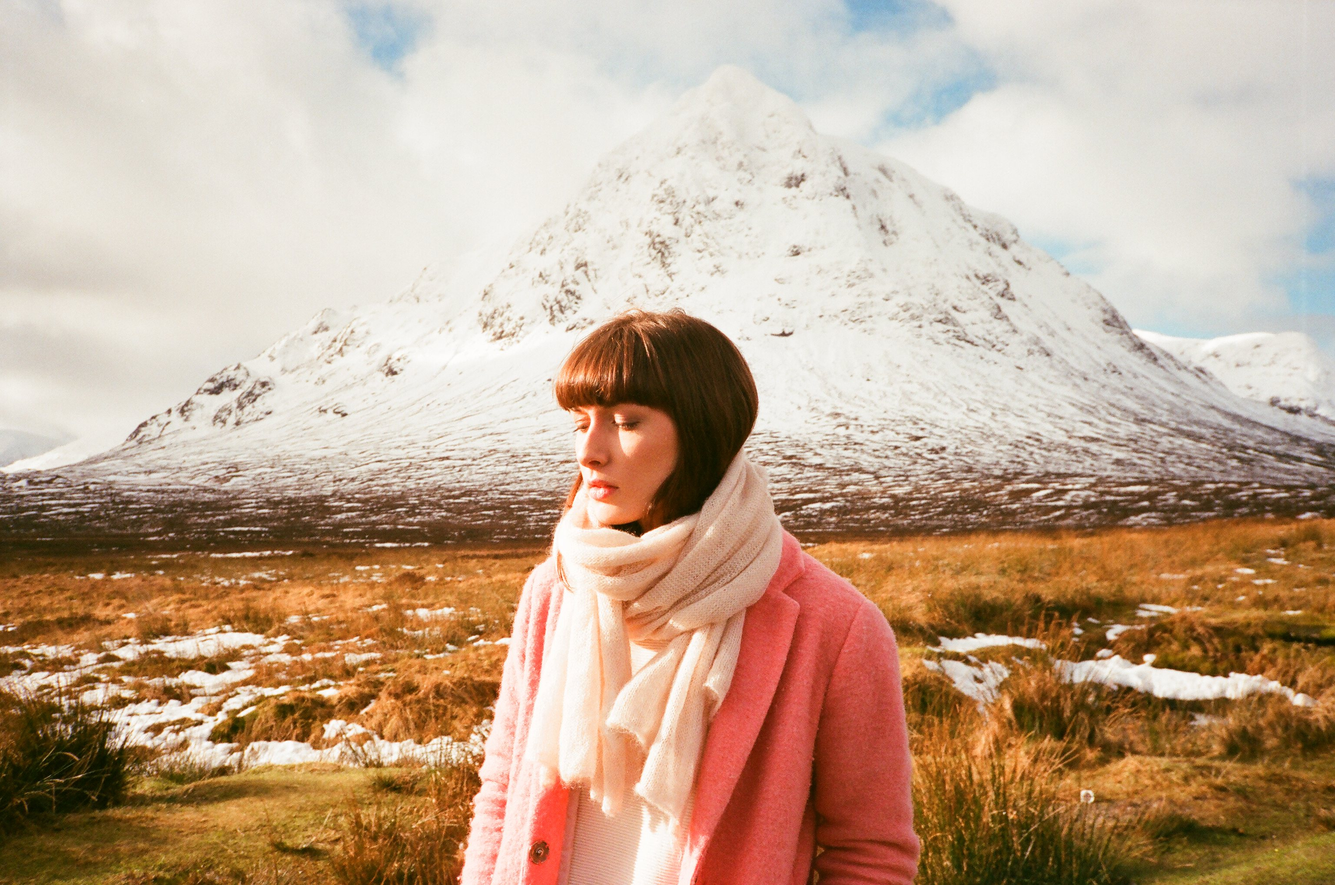
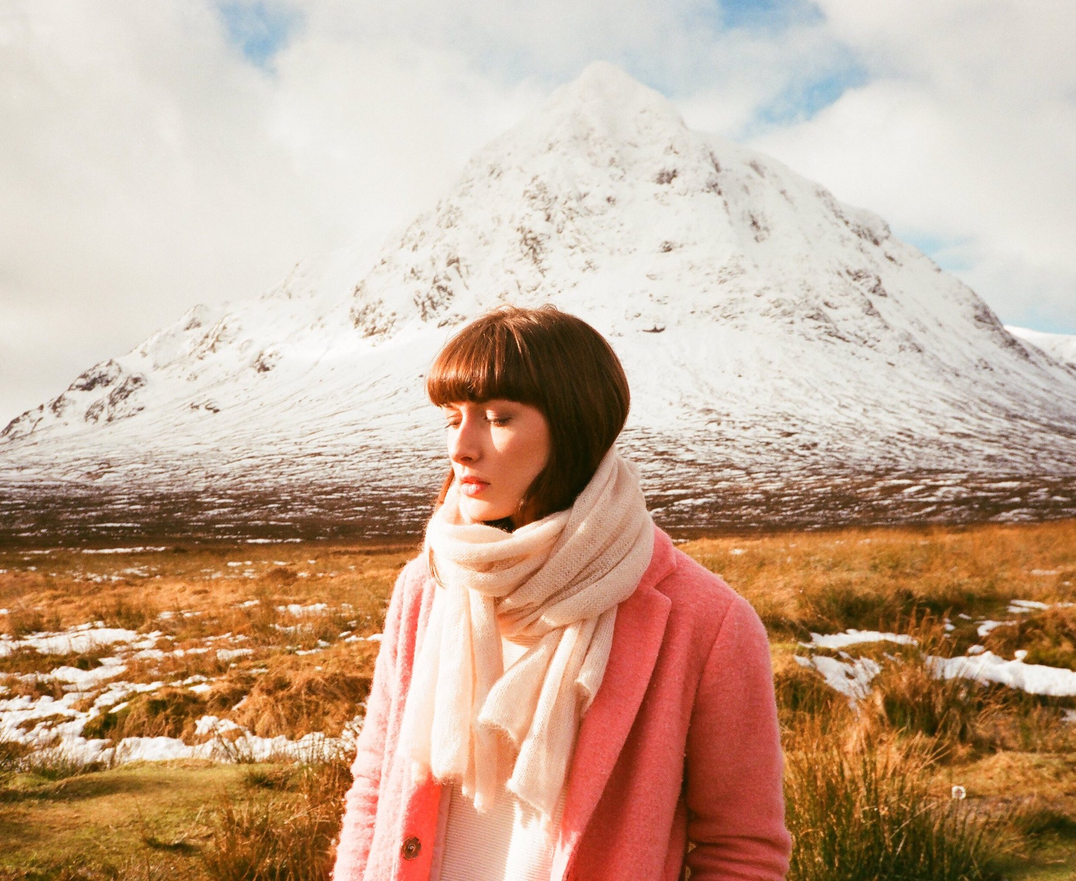
Implement redesign home featured header
+ New header image section
+ Fixed typos in all pages
+ Cleaned up css

diff --git a/css/main.css b/css/main.css
@@ -61,7 +61,7 @@ body {
 
 nav {
   max-width: 1080px;
-  margin: 0 auto 5rem auto !important;
+  margin: 0 auto 0 auto !important;
   padding-top: 1rem;
   padding-bottom: 1rem;
   padding-left: 2.5rem;
@@ -101,20 +101,21 @@ nav {
 }
 
 .featured-header-container {
-  display: flex;
-  flex-wrap: wrap;
-  justify-content: space-between;
+  background: url("../img/featured-img-polaroid.png") no-repeat center;
+  -webkit-background-size: cover;
+  -moz-background-size: cover;
+  -o-background-size: cover;
+  background-size: cover;
+
+  height: 500px;
+
+  padding-bottom: 6rem;
 }
 
-.featured-header-content-left {
-  flex: 1;
-  padding-right: 2em;
+.featured-header-content {
+  max-width: 340px;
+  
 }
-
-.featured-header-content-right {
-  max-width: 620px;
-}
-
 
 /* Nav text style */
 .nav-text {
@@ -157,9 +158,9 @@ nav {
 .standard-container {
   max-width: 1080px;
   margin: 0 auto !important;
+  padding-top: 5rem;
   padding-left: 2.5rem;
   padding-right: 2.5rem;
-  padding-bottom: 6rem;
 }
 
 .nav-text:hover {
@@ -293,7 +294,7 @@ h4 {
 
 p {
   font-family: 'Inter';
-  font-size: 1.125em;
+  font-size: 1em;
   font-weight: 300;
   max-width: 640px;
   line-height: 140%;
@@ -302,7 +303,7 @@ p {
 
 li {
   font-family: 'Inter';
-  font-size: 1.125em;
+  font-size: 1em;
   font-weight: 300;
   padding-bottom: 0.75rem;
 }
@@ -430,18 +431,6 @@ input:active {
   max-width: 100%;
   max-height: 100%;
   padding: 2rem;
-}
-
-
-.featured-product-img {
-  max-width: 280px;
-  max-height: 320px;
-  padding: 2rem;
-}
-
-.featured-header-img {
-  max-width: 100%;
-  max-height: 100%;
 }
 
 .product-title {
@@ -624,28 +613,16 @@ input:active {
   Responsive Rules -------------------
 */
 
-/*
-@media only screen and (max-width: 950px) {
 
-  #logo {
-    padding-left: 1.5rem;
-  }
+@media only screen and (max-width: 400px) {
 
-  .nav-container {
-    padding-left: 1.5rem;
-    padding-left: 1.5rem;
-  }
-
-  .standard-max-width-center-elements {
-    margin: 0 1.5rem 3.5rem 1.5rem !important;
-  }
-
-  .sub-header-container {
-    margin: 0 1.5rem 0 1.5rem !important;
+  .featured-header-content-right {
+    flex: 1;
+    max-width: 600px;
   }
 }
 
-*/
+
 
 
 /* 
@@ -685,6 +662,8 @@ input:active {
 .mid-text-padding {
   padding-bottom: 1em;
 }
+
+
 
 /*
 Louis classes

diff --git a/home.html b/home.html
@@ -21,7 +21,7 @@
 
           <div class="header-middle">
             <div class="logo-container">
-              <a id="logo" href="home.html">APRETURE</a>
+              <a id="logo" href="home.html">APERTURE</a>
             </div>
           </div>
 
@@ -35,17 +35,17 @@
     </header>
 
     <!-- Featured Header Section -->
-    <div class="featured-header-container standard-container">
-      <div class="featured-header-content-left">
-        <h4 class="dark-grey">FEATURED</h4>
-        <h2>Yashica T</h2>
-        <p>Packaged in a handy and slim design, what makes this camera a star among photographers is its high-quality 35 mm f/3.5 lens.</p>
-        <a href="product-detail.html">Learn More</a>
-        <img class="featured-product-img" src="img/canonet.png" alt="camera">
-      </div>
+    <div class="featured-header-container">
+      <div class="standard-container">
 
-      <div class="featured-header-content-right">
-        <img class="featured-header-img" src="img/featured-img-1.jpg" alt="featured-img">
+        <!-- featured-header-content is needed for setting max width -->
+        <div class="featured-header-content">
+          <h4 class="dark-grey">FEATURED</h4>
+          <h2>Polaroid SX-70</h2>
+          <p>Foldable. Instant. Revolutionary. The camera that made truly instant photography possible for the first time ever.</p>
+          <button onclick="location.href= 'product-detail.html'" type="submit" value="Submit" class="submit-button">Learn More</button>
+        </div>
+
       </div>
     </div>
 

diff --git a/about.html b/about.html
@@ -20,7 +20,7 @@
 
           <div class="header-middle">
             <div class="logo-container">
-              <a id="logo" href="home.html">APRETURE</h1>
+              <a id="logo" href="home.html">APERTURE</h1>
             </div>
           </div>
 

diff --git a/cart.html b/cart.html
@@ -19,7 +19,7 @@
 
           <div class="header-middle">
             <div class="logo-container">
-              <a id="logo" href="home.html">APRETURE</h1>
+              <a id="logo" href="home.html">APERTURE</h1>
             </div>
           </div>
 

diff --git a/product-detail-two.html b/product-detail-two.html
@@ -19,7 +19,7 @@
 
           <div class="header-middle">
             <div class="logo-container">
-              <a id="logo" href="home.html">APRETURE</h1>
+              <a id="logo" href="home.html">APERTURE</h1>
             </div>
           </div>
 

diff --git a/product-detail.html b/product-detail.html
@@ -19,7 +19,7 @@
 
           <div class="header-middle">
             <div class="logo-container">
-              <a id="logo" href="home.html">APRETURE</h1>
+              <a id="logo" href="home.html">APERTURE</h1>
             </div>
           </div>
 

diff --git a/product_listing.html b/product_listing.html
@@ -20,7 +20,7 @@
 
           <div class="header-middle">
             <div class="logo-container">
-              <a id="logo" href="home.html">APRETURE</h1>
+              <a id="logo" href="home.html">APERTURE</h1>
             </div>
           </div>
 
